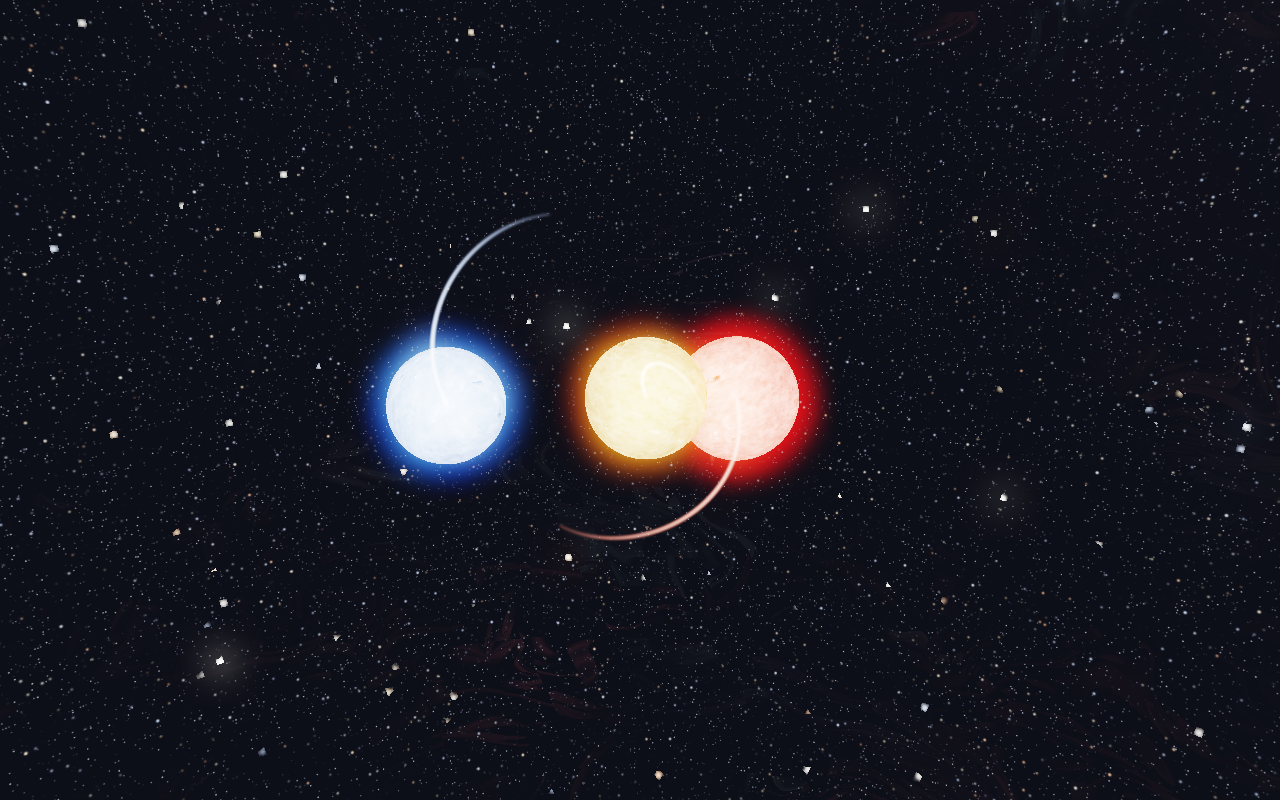
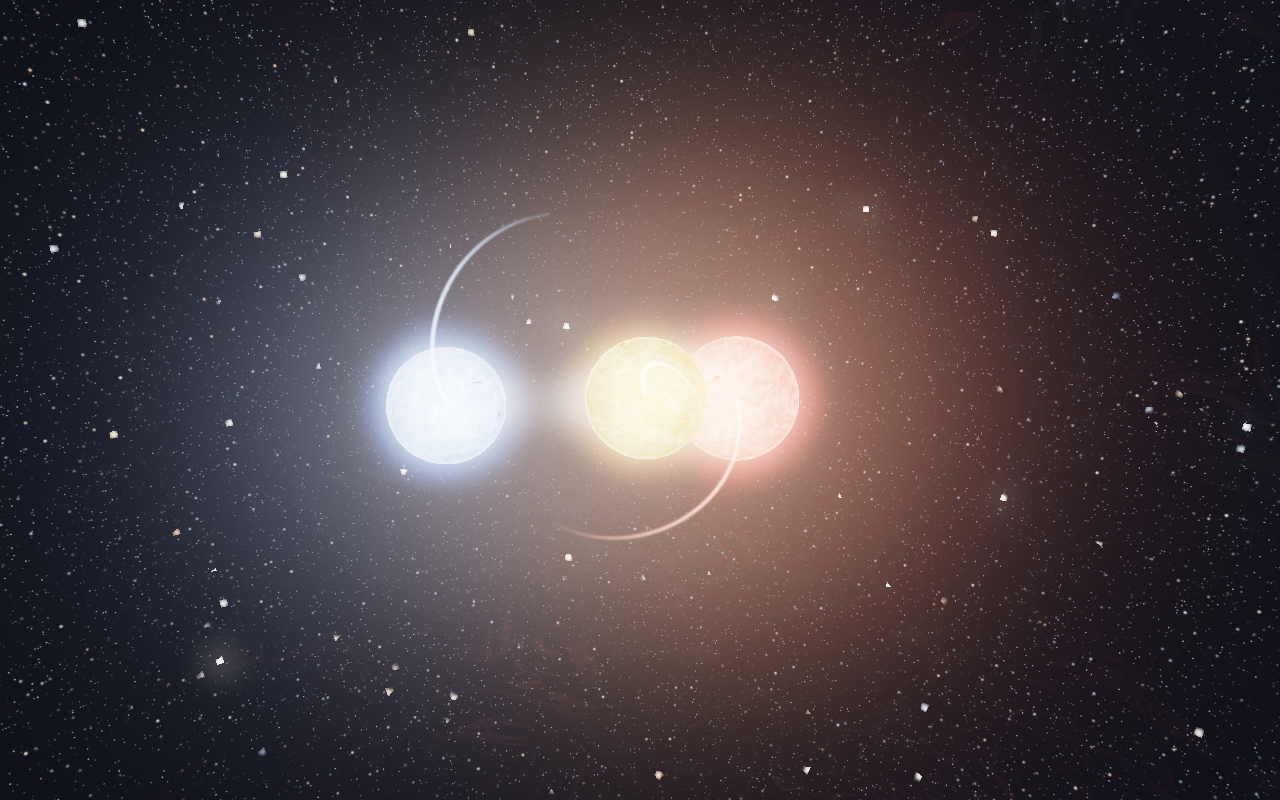
optimize graph

diff --git a/render/effects.py b/render/effects.py
@@ -1,0 +1,100 @@
+"""动态视觉特效（ti.func）：解析日冕辉光的临边日珥 + 潮汐等离子桥。
+
+由 pipeline.render_scene 在辉光阶段调用。两者都只在少数像素上
+有非零贡献（日珥局限于临边环带、等离子桥仅在双星近距时激活），
+平均每像素开销可忽略。
+
+注意：本模块函数被 pipeline 的 kernel 调用时，模块级全局常量按
+编译时绑定内联（与 render 包其他模块同一约束）。
+"""
+
+import taichi as ti
+
+from .context import PROM_AMP, PROM_SIG, TIDE_AMP, TIDE_OFF, TIDE_ON, TIDE_SIG
+from .noise import _fbm3, _sstep, _vmix, _vnoise
+from .state import star_gain_f, star_pos_f, star_rad_f, star_seeds, star_tints
+
+
+@ti.func
+def _prominence(k: ti.i32, t: ti.f32, bf: ti.f32, d2: ti.f32, r: ti.f32,
+                hit_k: ti.i32, t_min: ti.f32, cam: ti.template(),
+                rd: ti.template()):
+    """临边日珥：贴着星缘外侧的 H-alpha 色等离子环（随时间缓慢演化）。
+
+    只在临边环带（0.9 < ρ < 1.6）内计算；活动度与黑子共用种子
+    （sd.y 大 = 磁活动强 = 黑子多且日珥盛），保持表面/临边一致。
+    bf: 星心的前向距离；d2: 射线到星心距离²；hit_k/t_min: 遮挡信息。
+    """
+    col = ti.Vector([0.0, 0.0, 0.0])
+    rho2 = d2 / (r * r)
+    if rho2 > 0.9 and rho2 < 2.6:
+        vis = 1.0
+        if hit_k >= 0 and t_min < bf - r:
+            vis = 0.0                      # 被任何前景星盘挡住
+        if vis > 0.0:
+            # 射线上离星心最近的点 -> 临边方向（等离子环的角坐标）
+            q = cam + bf * rd
+            ldir = (q - star_pos_f[k]).normalized()
+            sd = star_seeds[k]
+            act = 0.30 + 0.70 * sd.y       # 活动度（与黑子同源）
+            lp = _fbm3(ldir * 2.4 + 17.0 * sd
+                       + ti.Vector([0.030 * t, 0.0, 0.020 * t]))
+            lp = max(lp, 0.0) ** 2.2       # 稀疏的环拱亮斑
+            rho = ti.sqrt(rho2)
+            prof = ti.exp(-((rho - 1.0) / PROM_SIG) ** 2)
+            if lp * prof > 0.004:
+                c = _vmix(star_tints[k], ti.Vector([1.0, 0.40, 0.24]), 0.55)
+                col += c * (PROM_AMP * act * lp * prof
+                            * star_gain_f[k])
+    return col
+
+
+@ti.func
+def _tidal_bridge(t: ti.f32, hit_k: ti.i32, t_min: ti.f32,
+                  cam: ti.template(), rd: ti.template()):
+    """潮汐等离子桥：双星近距时沿连线的发光物质流（质量转移近似）。
+
+    两星间距 d < TIDE_ON·(r_i+r_j) 时激活，亮度随接近平滑增强；
+    截面高斯（σ = TIDE_SIG·(r_i+r_j)），纵向抛物线渐弱，沿线低频
+    噪声调制出丝缕质感；被前景星盘遮挡。
+    """
+    col = ti.Vector([0.0, 0.0, 0.0])
+    for i in ti.static(range(3)):
+        for j in ti.static(range(i + 1, 3)):
+            a = star_pos_f[i]
+            b = star_pos_f[j]
+            u = b - a
+            d = u.norm()
+            rs = star_rad_f[i] + star_rad_f[j]
+            act = 1.0 - _sstep(TIDE_OFF * rs, TIDE_ON * rs, d)
+            if act > 0.002:
+                un = u / d
+                w = cam - a
+                wr = rd.dot(w)
+                wu = un.dot(w)
+                bb = rd.dot(un)
+                denom = 1.0 - bb * bb
+                # 射线与连线（无穷直线）最近点参数
+                tr = (wu * bb - wr) / max(denom, 1e-6)
+                s = wu + tr * bb               # 连线参数（世界单位）
+                s = max(0.0, min(d, s))
+                q = a + un * s                 # 连线一侧最近点
+                t2 = rd.dot(q - cam)           # 射线一侧参数
+                if t2 > 0.02:
+                    dist2 = (cam + rd * t2 - q).norm_sqr()
+                    sig = TIDE_SIG * rs
+                    prof = ti.exp(-dist2 / (2.0 * sig * sig))
+                    if prof > 0.004:
+                        vis = 1.0
+                        if hit_k >= 0 and t_min < t2:
+                            vis = 0.0          # 前景星盘挡住
+                        if vis > 0.0:
+                            lt = 4.0 * (s / d) * (1.0 - s / d)  # 纵向渐弱
+                            fil = 0.55 + 0.90 * _vnoise(
+                                q + 0.12 * t * un)               # 丝缕
+                            c = _vmix(star_tints[i], star_tints[j], 0.5)
+                            c = _vmix(c, ti.Vector([1.0, 1.0, 1.0]), 0.40)
+                            g = 0.5 * (star_gain_f[i] + star_gain_f[j])
+                            col += c * (TIDE_AMP * act * act * lt * prof
+                                        * fil * g)
+    return col

diff --git a/render/pipeline.py b/render/pipeline.py
@@ -2,6 +2,7 @@
 
 渲染管线（调用顺序见 app.ThreeBodyUniverse.render）：
     render_scene   背景 + 三恒星精确求交 + 逐像素表面 + 解析日冕辉光
+                   + 临边日珥 + 潮汐等离子桥（effects）
     splat_trails   尾迹线段光栅化（HDR 原子叠加）
     bloom_down     亮部提取 + 4x box 降采样
     bloom_blur_h/v 可分离高斯（1/4 分辨率）
@@ -20,7 +21,8 @@ import taichi as ti
 from .background import _bg_color
 from .context import (BLOOM_SIGMA, GLOW_IN_AMP, GLOW_IN_SIG,
                       GLOW_OUT_AMP, GLOW_OUT_SIG)
-from .noise import _aces, _vmix
+from .effects import _prominence, _tidal_bridge
+from .noise import _aces, _sstep, _vmix
 from .star_surface import _star_surface
 from .state import (cam_fov_f, cam_look_f, cam_pos_f, star_gain_f,
                     star_pos_f, star_rad_f, star_tints, trail_cnt,
@@ -114,24 +116,37 @@ def render_scene(t: ti.f32):
             n = (p - star_pos_f[hit_k]).normalized()
             col = _star_surface(hit_k, n, rd, t)
 
-        # --- 解析日冕辉光（未命中处也累加；被前方天体遮挡则衰减） ---
+        # --- 解析日冕辉光（未命中处也累加；被前景天体遮挡则衰减） ---
+        # bf = 前向距离（>0 = 星体在相机前方；历史版本此处符号写反，
+        # 导致辉光只出现在相机背后的星体上、前方星体无辉光，已修正）
         for k in ti.static(range(3)):
             oc = cam - star_pos_f[k]
-            b = oc.dot(rd)
-            if b > 0.0:
-                d2 = oc.dot(oc) - b * b            # 射线到星心距离的平方
+            bf = -oc.dot(rd)
+            if bf > 0.0:
+                d2 = oc.dot(oc) - bf * bf        # 射线到星心距离的平方
                 r = star_rad_f[k]
+                rho2 = d2 / (r * r)
+                # 自遮挡：盘内不叠加辉光（日冕相对光球极弱，避免洗白表面），
+                # 临边 0.93r~r 平滑过渡，星缘外壳保持完整
+                self_vis = _sstep(0.86, 1.0, rho2)
                 vis = 1.0
-                if hit_k >= 0 and hit_k != k and t_min < b - r:
-                    vis = 0.0                      # 辉光中心被前方天体挡住
+                if hit_k >= 0 and hit_k != k and t_min < bf - r:
+                    vis = 0.0                    # 辉光中心被前方天体挡住
                 s_in = r * GLOW_IN_SIG
                 s_out = r * GLOW_OUT_SIG
                 # 内晕偏白热（色球/散射），外晕保持星色调（日冕）
                 c_in = _vmix(star_tints[k], ti.Vector([1.0, 1.0, 1.0]), 0.45)
-                col += c_in * (GLOW_IN_AMP * ti.exp(-d2 / (s_in * s_in) * 3.0)
-                               * vis * star_gain_f[k])
-                col += star_tints[k] * (GLOW_OUT_AMP * ti.exp(-d2 / (s_out * s_out))
-                                        * vis * star_gain_f[k])
+                col += c_in * (GLOW_IN_AMP
+                               * ti.exp(-d2 / (s_in * s_in) * 3.0)
+                               * vis * self_vis * star_gain_f[k])
+                col += star_tints[k] * (GLOW_OUT_AMP
+                                        * ti.exp(-d2 / (s_out * s_out))
+                                        * vis * self_vis * star_gain_f[k])
+                # 临边日珥（仅环带像素有非零贡献）
+                col += _prominence(k, t, bf, d2, r, hit_k, t_min, cam, rd)
+
+        # --- 潮汐等离子桥（仅双星近距时激活） ---
+        col += _tidal_bridge(t, hit_k, t_min, cam, rd)
 
         img_hdr[x, y] = col
 

diff --git a/physics.py b/physics.py
@@ -40,6 +40,33 @@ class ThreeBodySystem:
         self.vel = v + dt / 6.0 * (k1v + 2 * k2v + 2 * k3v + k4v)
         self.time += dt
 
+    def min_pair_dist(self):
+        """最近两体间距（自适应步长的加密依据）"""
+        p = self.pos
+        return float(min(np.linalg.norm(p[0] - p[1]),
+                         np.linalg.norm(p[0] - p[2]),
+                         np.linalg.norm(p[1] - p[2])))
+
+    def step_adaptive(self, dt, kappa=4.7e-3, max_sub=48):
+        """自适应子步 RK4：近距按引力时标 κ·d^1.5 加密。
+
+        固定细步长对含近碰撞的周期解（Šuvakov 族）在远距阶段浪费
+        大量步数；本方法只在近距时加密（近距动力学时标 ~ d^1.5），
+        远距用满步长——含近碰撞轨道下速度与精度同时优于固定步长。
+        κ 标定：d=0.1 时子步 ≈1.5e-4（实测能量漂移 <1e-5/周期）。
+        """
+        rem = float(dt)
+        n = 0
+        while rem > 1e-12:
+            if n >= max_sub:
+                self.step(rem)            # 兜底：极端穿透时一次收尾
+                return
+            d = max(self.min_pair_dist(), 0.02)
+            h = min(rem, kappa * d ** 1.5)
+            self.step(h)
+            rem -= h
+            n += 1
+
     @property
     def center_of_mass(self):
         w = self.masses / self.masses.sum()
@@ -64,8 +91,8 @@ class ThreeBodySystem:
 #                等质量时 ω² = 5m/(4a³)，中体恰在质心不动（不稳定）
 #   butterfly / moth / yin_yang
 #                Šuvakov–Dmitrašinović 等质量周期解族（PRL 110, 114301,
-#                2013）；原始尺度 ±1 太小（恒星视觉半径 ~0.4 会相碰），
-#                整体放大 _SD_SCALE 倍（见 _suvakov 注释）
+#                2013）；原始尺度 ±1 太小，整体放大 _SD_SCALE 倍；含极
+#                近碰撞，配 adaptive=True 自适应子步（见 step_adaptive）
 # ============================================================================
 
 def _random_config():
@@ -81,7 +108,7 @@ def _random_config():
 _SD_SCALE = 3.0     # Šuvakov 解整体尺度（长度单位）
 
 
-def _suvakov(name, vx, vy, period, cam_dist=7.0, dt=2e-4):
+def _suvakov(name, vx, vy, period, cam_dist=7.0):
     """Šuvakov–Dmitrašinović 族初值构造。
 
     原始解（G = m = 1）：x1=(-1,0), x2=(1,0), x3=(0,0)，
@@ -89,9 +116,9 @@ def _suvakov(name, vx, vy, period, cam_dist=7.0, dt=2e-4):
     长度放大 s 时速度按 s^-1/2、周期按 s^3/2 缩放后仍为精确解。
 
     注意：这族解都含极近碰撞（原始尺度最小间距 ~0.01-0.08，
-    是其周期性的物理本质），RK4 需要更细步长保证能量
-    守恒（dt=2e-4 实测漂移 <1e-7/周期）；advance() 会按 dt
-    归一每帧步数，时间流速与其他配置一致。
+    是其周期性的物理本质），因此配合 adaptive=True：常规阶段
+    用 dt=1e-3，近距时由 step_adaptive 按引力时标自动加密
+    （能量漂移实测 <1e-5/周期，比固定 2e-4 更准且快约 5 倍）。
     """
     c = _SD_SCALE ** -0.5
     return dict(
@@ -100,7 +127,7 @@ def _suvakov(name, vx, vy, period, cam_dist=7.0, dt=2e-4):
              [0.0, 0.0, 0.0]],
         vel=[[vx * c, vy * c, 0.0], [vx * c, vy * c, 0.0],
              [-2.0 * vx * c, -2.0 * vy * c, 0.0]],
-        dt=dt, cam_dist=cam_dist,
+        dt=0.001, cam_dist=cam_dist, adaptive=True,
         period=period * _SD_SCALE ** 1.5)
 
 

diff --git a/sim3d.py b/sim3d.py
@@ -9,7 +9,11 @@
         黑子（本影/半影丝缕）+ 谱斑、白炽亮斑、临边昏暗（I ~ 1 - u(1-mu)）、
         针状体色球红缘
       * 解析日冕辉光：沿射线到星心距离的指数衰减（内晕贴球缘 + 外层大范围光晕），
-        带遮挡判断（被前方天体挡住的辉光自动衰减）
+        带遮挡判断（被前方天体挡住的辉光自动衰减）与盘内自遮挡
+      * 临边日珥：星缘外侧的 H-alpha 色等离子环，随时间演化，
+        活动度与黑子同源（磁活动强的星黑子多且日珥盛）
+      * 潮汐等离子桥：双星近距时沿连线的发光物质流（质量转移近似），
+        随接近平滑增强、带丝缕质感与遮挡
       * Unreal/CoD 式 Bloom：亮部提取 -> 1/4 分辨率可分离高斯 -> 双线性上采样合成
       * ACES Filmic Tone Mapping + gamma 2.2
   - 程序化深空背景：银河（窄亮脊 + 宽盘 + 核球 + 尘埃暗隙 + 恒星颗粒星流）
@@ -23,6 +27,8 @@
     镜头 FOV 变焦与环绕推拉
 
 物理内核沿用 RK4 积分（float64、numpy 向量化），保证混沌轨迹精度；
+含近碰撞的周期特解（蝴蝶/飞蛾/阴阳）采用自适应子步（近距按引力时标
+κ·d^1.5 自动加密，能量漂移比固定细步长低 3-4 个数量级且快约 4.5 倍）；
 全部渲染在 GPU（Vulkan/Metal）上逐像素完成。
 
 代码结构（按模块拆分）：
@@ -36,6 +42,7 @@
         noise.py            GPU 噪声/曲线工具（hash / fbm / smoothstep / ACES）
         background.py       深空背景（银河 / 星云 / 星系 / 星场）
         star_surface.py     恒星表面逐像素着色（米粒 / 黑子 / 临边昏暗……）
+        effects.py          动态特效（临边日珥 / 潮汐等离子桥）
         state.py            固定形状 field（相机 / 恒星 / 尾迹）
         pipeline.py         分辨率相关 field + 全部渲染 kernel（管线本体）
 

diff --git a/app.py b/app.py
@@ -110,15 +110,17 @@ class ThreeBodyUniverse:
         """按时间倍率推进物理，并维护尾迹环形缓冲
 
         每帧基准模拟时长固定（0.06 模拟秒 @ speed=1）：步数按配置
-        dt 归一，近碰撞特解用更细 dt（如 2e-4）时自动加密步数，
-        时间流速与手感在不同配置间保持一致。
+        dt 归一。含近碰撞的特解（cfg['adaptive']）用 step_adaptive
+        在近距时自动加密子步（远距用满步长，速度与精度兼得）。
         """
         if self.paused:
             return
         steps = int(round(60.0 * self.speed * 0.001 / self.dt))
         steps = max(1, min(steps, 1200))
+        step_fn = (self.sys.step_adaptive if self.cfg.get('adaptive')
+                   else self.sys.step)
         for _ in range(steps):
-            self.sys.step(self.dt)
+            step_fn(self.dt)
             self.trails.step(self.dt, self.sys.pos.astype(np.float32))
 
     # ------------------------------------------------------------------ draw

diff --git a/render/__init__.py b/render/__init__.py
@@ -5,6 +5,7 @@
     noise          GPU 噪声/曲线工具（ti.func）
     background     深空背景着色（银河 / 星云 / 星系 / 星场）
     star_surface   恒星表面着色（米粒 / 黑子 / 临边昏暗……）
+    effects        动态特效（临边日珥 / 潮汐等离子桥）
     state          固定形状 field（import 即分配，可安全 from-import）
     pipeline       分辨率相关 field（ensure_fields）+ 全部渲染 kernel
 
@@ -20,5 +21,5 @@
 通过模块属性访问，不要 from-import 后长期持有（详见 pipeline 文档）。
 """
 
-from . import (background, context, noise, pipeline, star_surface,  # noqa: F401
-               state)
+from . import (background, context, effects, noise, pipeline,  # noqa: F401
+               star_surface, state)

diff --git a/README.md b/README.md
@@ -1,5 +1,5 @@
 # ThreeBody-Sim
-A ThreeBody simluation apps based on taichi
+A ThreeBody simulation apps based on taichi
 
 # RUN ThreeBody-sim
 
